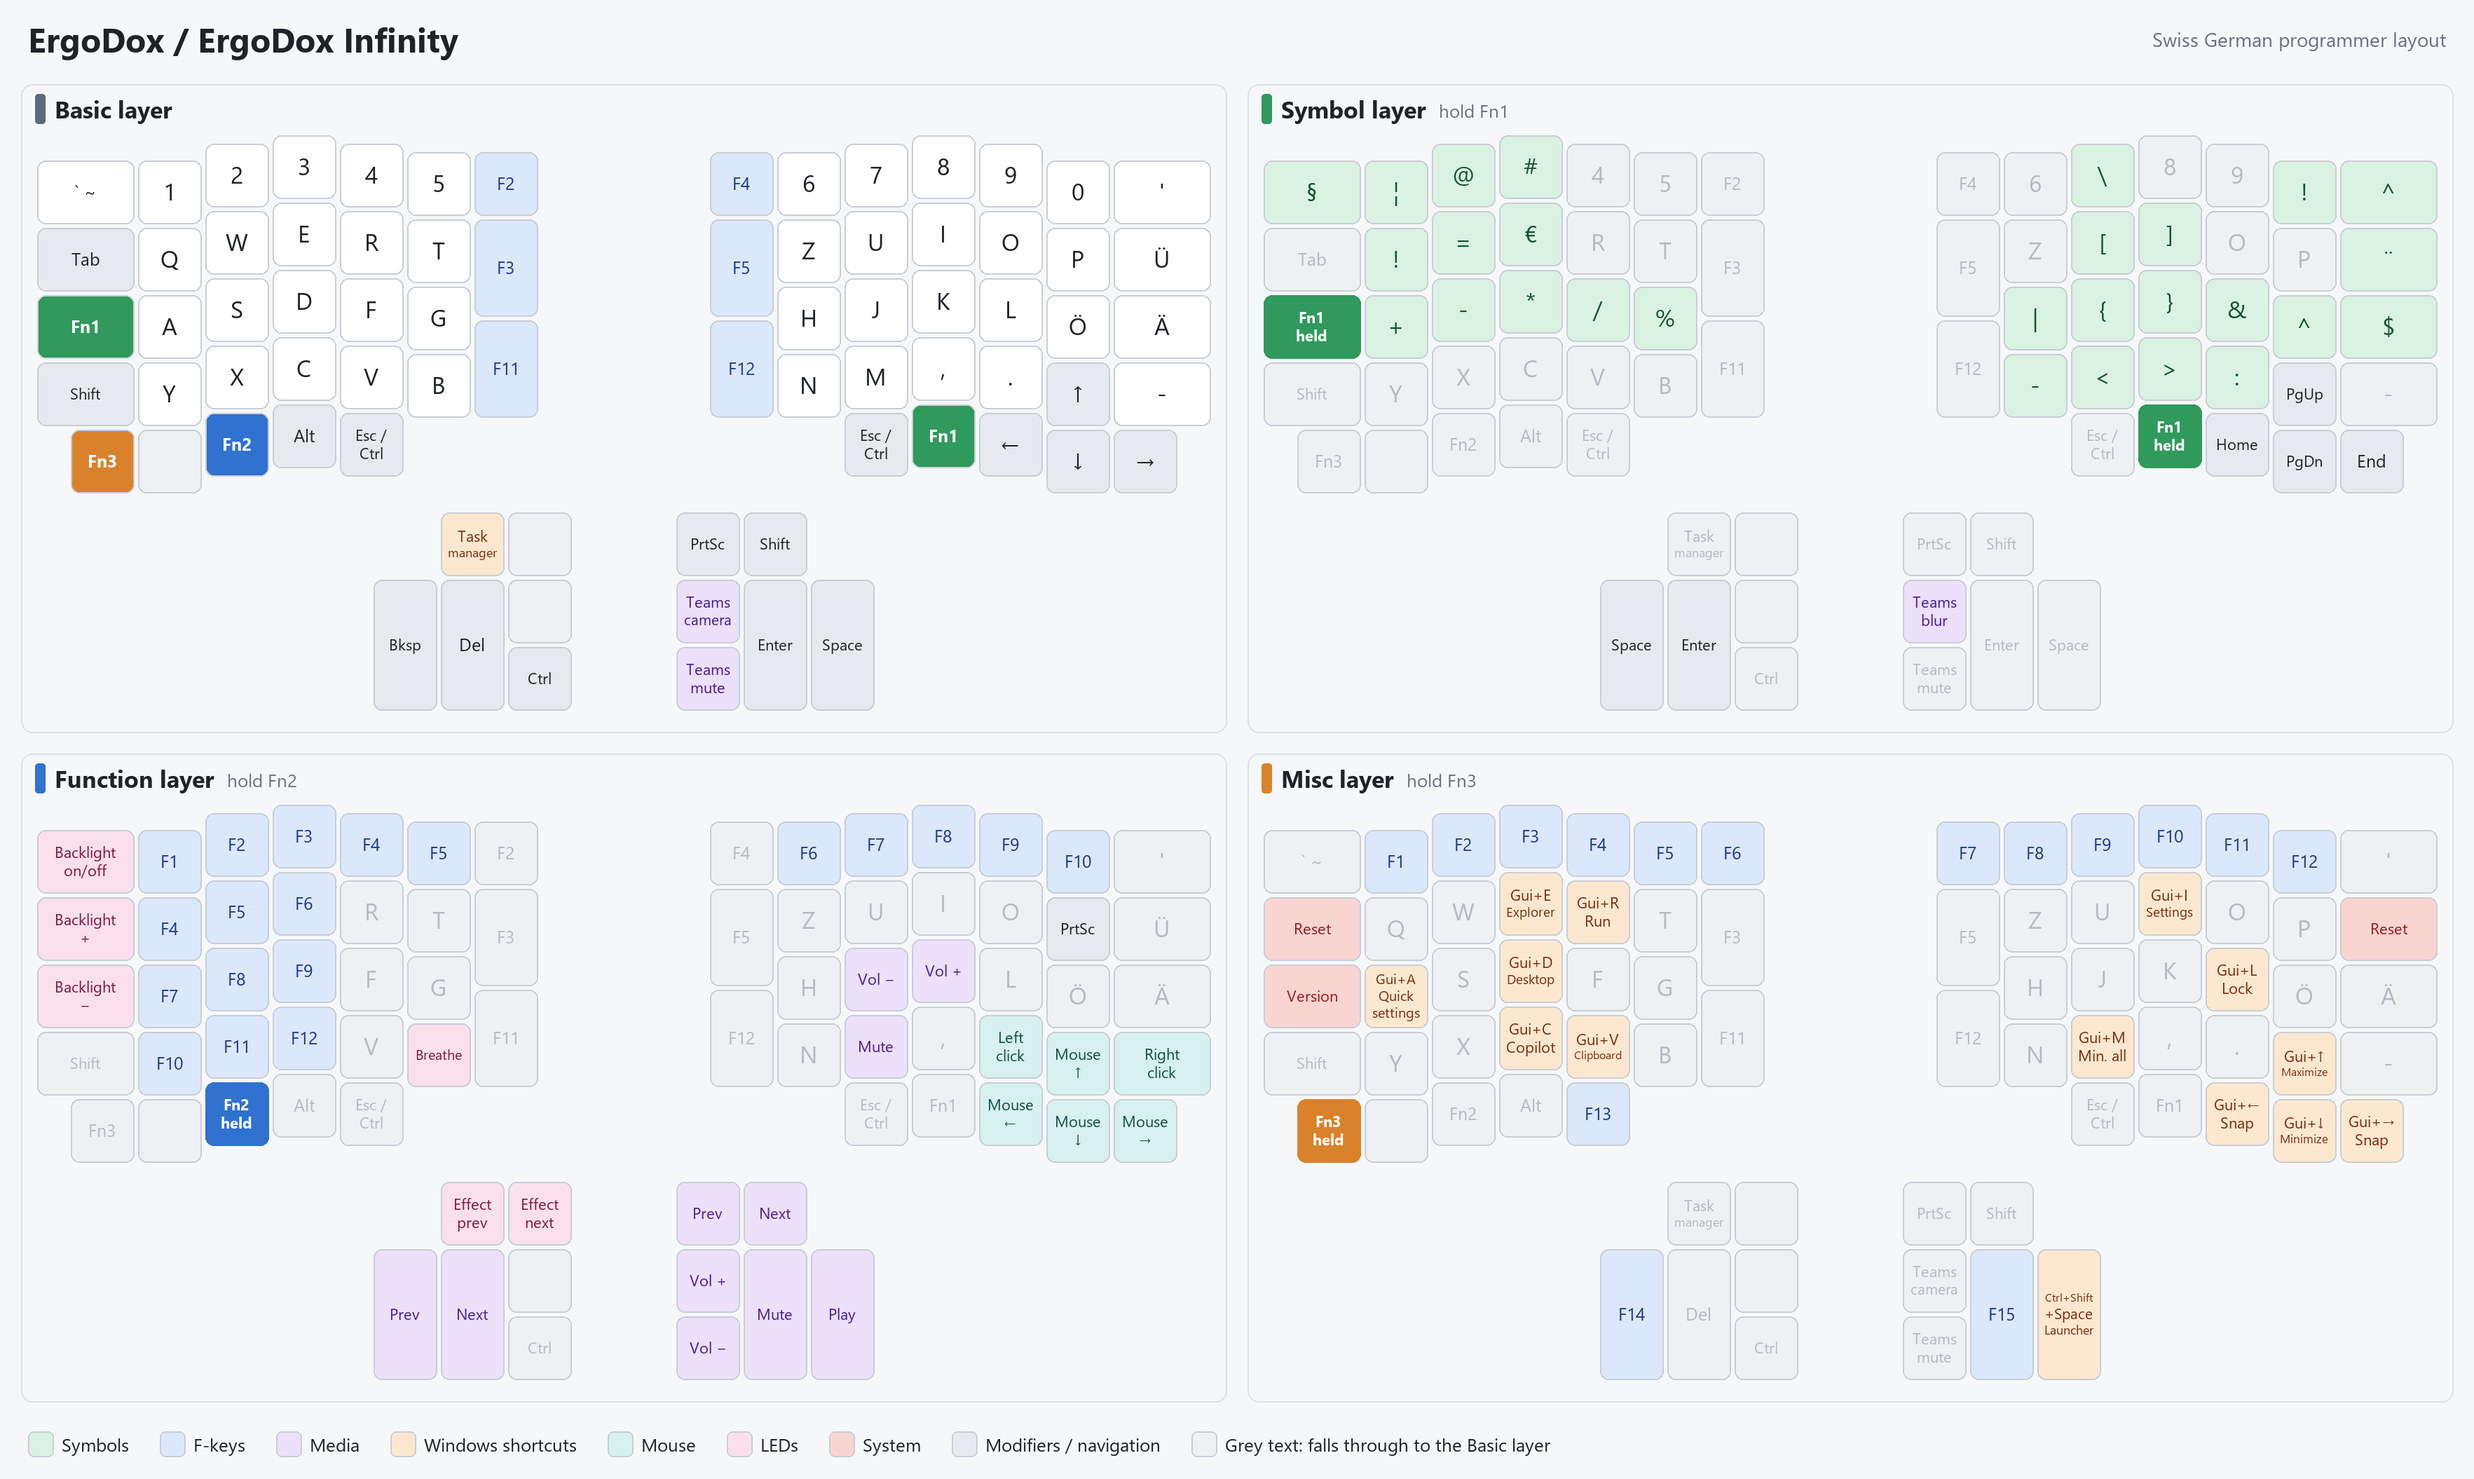
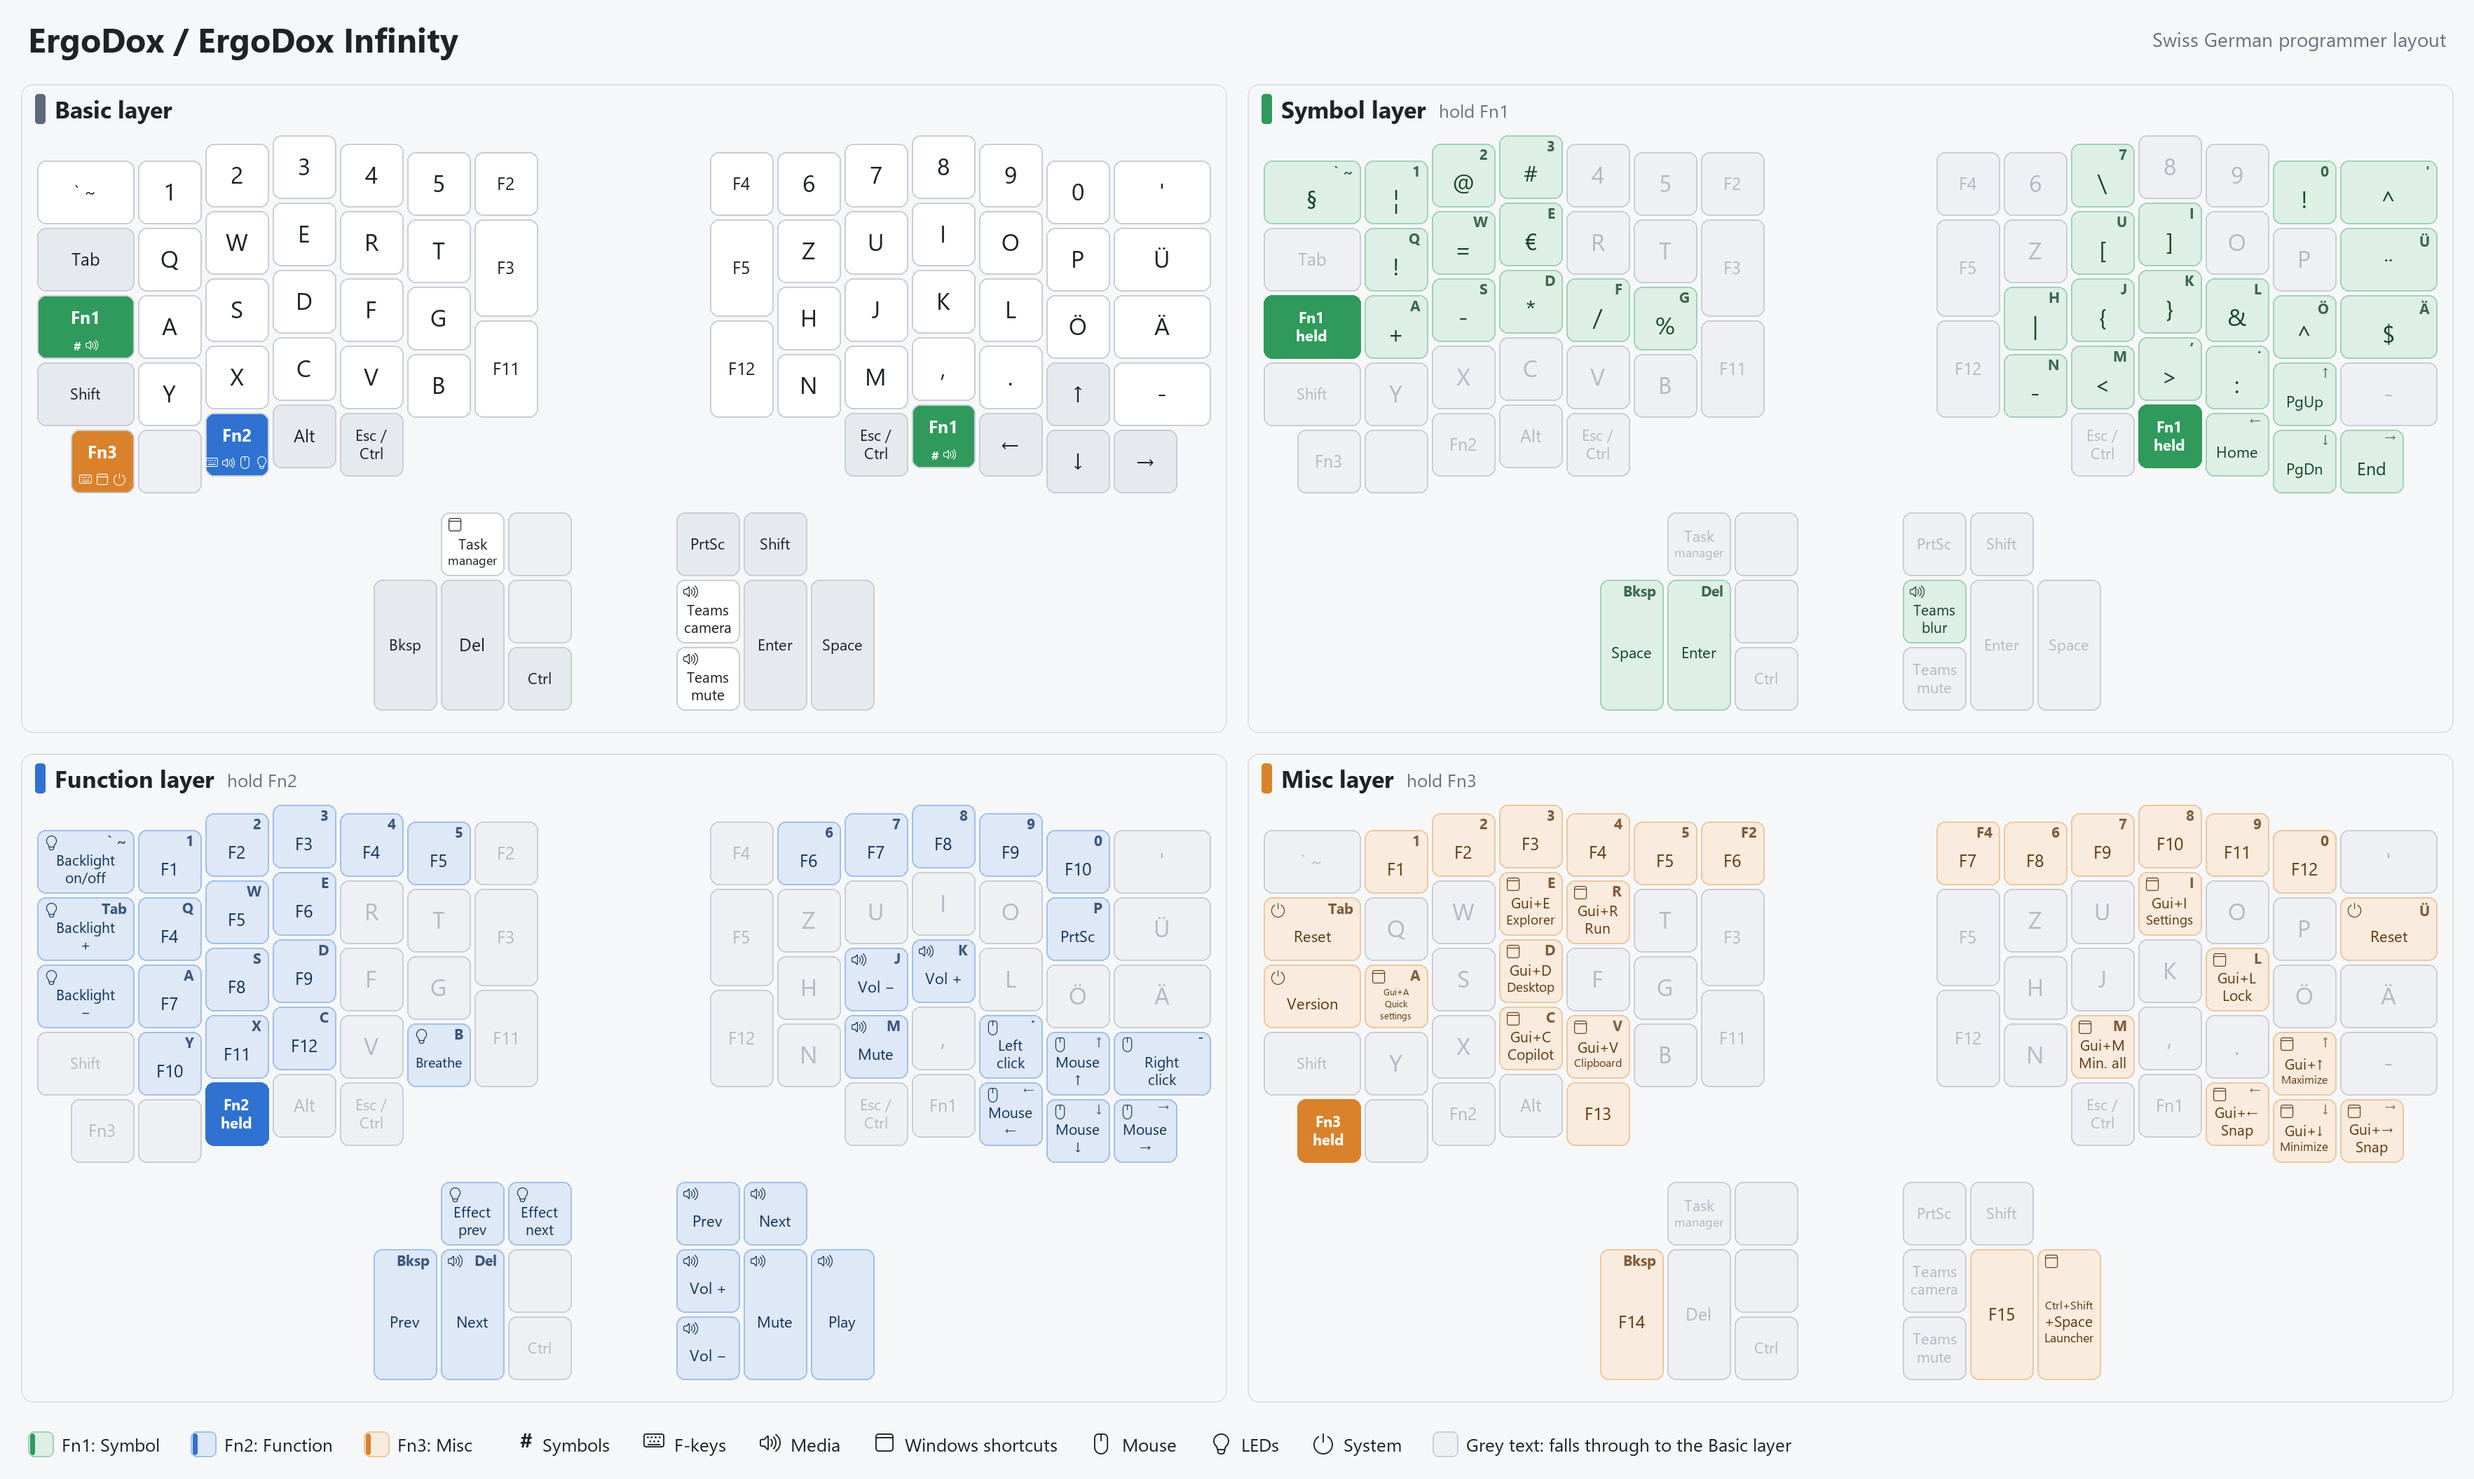
Tint cheat sheet keys by layer and show the Basic key underneath
Fn-layer keys take a light tint of their layer colour and show the
Basic-layer key at that position in the corner, so a lookup reads
straight off the key (Vol + -> Fn2 + K). Category colours are replaced
by Segoe Fluent icons, and the Fn keys on the Basic layer list the
categories found on their layer.

diff --git a/tools/cheatsheets.py b/tools/cheatsheets.py
@@ -13,6 +13,7 @@ OUT = ROOT / "docs" / "cheatsheets"
 FONT_DIR = Path("C:/Windows/Fonts")
 FONT = str(FONT_DIR / "segoeui.ttf")
 FONT_BOLD = str(FONT_DIR / "segoeuib.ttf")
+FONT_ICONS = str(FONT_DIR / "SegoeIcons.ttf")   # Segoe Fluent Icons (Windows 11)
 
 U = 96          # pixels per key unit
 GAP = 6         # gap between keys
@@ -25,21 +26,21 @@ LAYERS = [
     ("Function layer", "hold Fn2", "#2f72d0"),
     ("Misc layer", "hold Fn3", "#d9822b"),
 ]
-CATEGORIES = {               # fill, text
-    "alpha":  ("#ffffff", "#1f2328"),
-    "mod":    ("#e6e9ee", "#1f2328"),
-    "symbol": ("#d9f2e2", "#14532d"),
-    "fkey":   ("#dbe7fb", "#1e3a8a"),
-    "media":  ("#ece0fa", "#4c1d95"),
-    "rgb":    ("#fbe0ec", "#831843"),
-    "mouse":  ("#d6f1ee", "#134e4a"),
-    "window": ("#fde8cf", "#7c2d12"),
-    "system": ("#f9d5d2", "#991b1b"),
+BASIC_FILLS = {"alpha": "#ffffff", "mod": "#e6e9ee"}   # Basic layer; anything else is white
+ICONS = {                    # category: (font file, glyph)
+    "symbol": (FONT_BOLD, "#"),
+    "fkey":   (FONT_ICONS, ""),   # keyboard
+    "media":  (FONT_ICONS, ""),   # speaker
+    "window": (FONT_ICONS, ""),   # window
+    "mouse":  (FONT_ICONS, ""),   # mouse
+    "rgb":    (FONT_ICONS, ""),   # light bulb
+    "system": (FONT_ICONS, ""),   # power
 }
+KEY_ICONS = {"media", "window", "mouse", "rgb", "system"}   # symbol/F-key labels speak for themselves
 LEGEND = [
     ("symbol", "Symbols"), ("fkey", "F-keys"), ("media", "Media"),
     ("window", "Windows shortcuts"), ("mouse", "Mouse"), ("rgb", "LEDs"),
-    ("system", "System"), ("mod", "Modifiers / navigation"),
+    ("system", "System"),
 ]
 BG = "#f6f7f9"
 TRANSPARENT_FILL = "#eef0f3"
@@ -233,11 +234,36 @@ KEYBOARDS = [
 _fonts = {}
 
 
-def font(size, bold=False):
-    key = (size, bold)
+def font(size, bold=False, path=None):
+    path = path or (FONT_BOLD if bold else FONT)
+    key = (size, path)
     if key not in _fonts:
-        _fonts[key] = ImageFont.truetype(FONT_BOLD if bold else FONT, size)
+        _fonts[key] = ImageFont.truetype(path, size)
     return _fonts[key]
+
+
+def mix(color, other, amount):
+    """Blend two #rrggbb colours; amount 0 = color, 1 = other."""
+    a = [int(color[i:i + 2], 16) for i in (1, 3, 5)]
+    b = [int(other[i:i + 2], 16) for i in (1, 3, 5)]
+    return "#" + "".join(f"{round(x + (y - x) * amount):02x}" for x, y in zip(a, b))
+
+
+def layer_colours(n):
+    """fill, text, outline for keys that do something on layer n."""
+    accent = LAYERS[n][2]
+    return mix(accent, "#ffffff", 0.84), mix(accent, "#000000", 0.55), mix(accent, "#ffffff", 0.55)
+
+
+def draw_glyph(draw, xy, glyph, size, color, anchor="lt"):
+    """Draw a glyph so its ink box sits at xy (anchor: l/r + t/b)."""
+    path, ch = glyph
+    f = font(size, path=path)
+    x0, y0, x1, y1 = f.getbbox(ch)
+    x = xy[0] - (x0 if anchor[0] == "l" else x1)
+    y = xy[1] - (y0 if anchor[1] == "t" else y1)
+    draw.text((x, y), ch, font=f, fill=color)
+    return x1 - x0
 
 
 def text_height(lines, sizes, descender=True):
@@ -270,19 +296,41 @@ def fit_key_text(draw, text, max_w, max_h):
     return lines, fit_lines(draw, lines, max_w, max_h, start)
 
 
-def draw_key(draw, rect, text, fill, color, outline=None, bold=False):
-    """text may be a tuple of alternative wrappings; the one whose smallest line is largest wins."""
+def draw_key(draw, rect, text, fill, color, outline=None, bold=False, width=2,
+             icon=None, corner=None, corner_color=None, badges=()):
+    """text may be a tuple of alternative wrappings; the one whose smallest line is largest wins.
+    icon: category glyph top left; corner: Basic-layer key label top right;
+    badges: row of category glyphs under the text."""
     x0, y0, x1, y1 = rect
-    draw.rounded_rectangle(rect, RADIUS, fill=fill, outline=outline or "#c9ced6",
-                           width=4 if outline else 2)
+    draw.rounded_rectangle(rect, RADIUS, fill=fill, outline=outline or "#c9ced6", width=width)
+    pad, small = 10, int(U * 0.22)
+    top = bottom = 0
+    if icon and corner:                 # no room for both: the Basic key label wins
+        widths = [font(small, path=p).getbbox(t) for p, t in (ICONS[icon], (FONT_BOLD, corner))]
+        if sum(b[2] - b[0] for b in widths) + 8 > x1 - x0 - 2 * pad:
+            icon = None
+    if icon:
+        draw_glyph(draw, (x0 + pad, y0 + pad - 2), ICONS[icon], small, color)
+    if corner:
+        draw_glyph(draw, (x1 - pad, y0 + pad - 2), (FONT_BOLD, corner), small, corner_color, "rt")
+    if icon or corner:
+        top = small + 2
+    if badges:
+        bottom = small + 4
+        sz = int(small * 0.9)
+        ws = [font(sz, path=ICONS[b][0]).getbbox(ICONS[b][1]) for b in badges]
+        ws = [b[2] - b[0] for b in ws]
+        x = (x0 + x1 - sum(ws) - 6 * (len(ws) - 1)) / 2
+        for b, w in zip(badges, ws):
+            draw_glyph(draw, (x, y1 - pad), ICONS[b], sz, color, "lb")
+            x += w + 6
     if not text:
         return
-    pad = 10
     variants = [text] if isinstance(text, str) else text
-    fits = [fit_key_text(draw, t, x1 - x0 - 2 * pad, y1 - y0 - 2 * pad) for t in variants]
+    fits = [fit_key_text(draw, t, x1 - x0 - 2 * pad, y1 - y0 - 2 * pad - top - bottom) for t in variants]
     lines, sizes = max(fits, key=lambda ls: min(ls[1]))
     fonts = [font(s, bold) for s in sizes]
-    cx, cy = (x0 + x1) / 2, (y0 + y1) / 2
+    cx, cy = (x0 + x1) / 2, (y0 + top + y1 - bottom) / 2
     baseline = cy - text_height(lines, sizes, descender=False) / 2 -fonts[0].getbbox("A", anchor="ls")[1]
     for i, (line, f) in enumerate(zip(lines, fonts)):
         if i:
@@ -304,6 +352,7 @@ def render_layer(layers, n, geometry):
         tw = d.textlength(name, font=font(34, bold=True))
         d.text((48 + tw + 18, 37), how, font=font(26), fill=TEXT_MUTED, anchor="lm")
 
+    fill, color, outline = layer_colours(n)
     for i, (x, y, w, h) in enumerate(geometry):
         rect = (20 + x * U + GAP / 2, header + y * U + GAP / 2,
                 20 + (x + w) * U - GAP / 2, header + (y + h) * U - GAP / 2)
@@ -312,20 +361,45 @@ def render_layer(layers, n, geometry):
             base = layers[0][i]
             text, cat = label(base) if base != "_______" else ("", "")
             if n and cat == f"layer{n}":            # the key held to reach this layer
-                draw_key(d, rect, f"{text}\nheld", accent, "#ffffff", outline=accent, bold=True)
+                draw_key(d, rect, f"{text}\nheld", accent, "#ffffff", outline=accent, width=4, bold=True)
             else:
                 draw_key(d, rect, text if n else "", TRANSPARENT_FILL, TRANSPARENT_TEXT)
             continue
-        text, cat = label(kc)
-        if n and cat == "alpha":                    # plain CH key placed on a symbol layer
-            cat = "symbol"
+        text, cat = key_category(kc, n)
         if cat.startswith("layer"):
             col = LAYERS[int(cat[-1])][2]
-            draw_key(d, rect, text, col, "#ffffff", bold=True)
+            draw_key(d, rect, text, col, "#ffffff", bold=True,
+                     badges=layer_categories(layers, int(cat[-1])))
+        elif n:
+            draw_key(d, rect, text, fill, color, outline=outline, icon=cat if cat in KEY_ICONS else None,
+                     corner=base_hint(layers[0][i]), corner_color=mix(color, fill, 0.2))
         else:
-            fill, color = CATEGORIES[cat]
-            draw_key(d, rect, text, fill, color)
+            draw_key(d, rect, text, BASIC_FILLS.get(cat, "#ffffff"), TEXT_DARK,
+                     icon=cat if cat in KEY_ICONS else None)
     return img
+
+
+def key_category(kc, n):
+    text, cat = label(kc)
+    if n and cat == "alpha":                        # plain CH key placed on a symbol layer
+        cat = "symbol"
+    return text, cat
+
+
+def layer_categories(layers, n):
+    """Icon categories of the keys defined on layer n, in legend order."""
+    cats = {key_category(kc, n)[1] for kc in layers[n] if kc != "_______"}
+    return [c for c, _ in LEGEND if c in cats]
+
+
+def base_hint(kc):
+    """Short label of the Basic-layer key at this position, or None."""
+    if kc == "_______":
+        return None
+    text, cat = label(kc)
+    if cat.startswith("layer") or not isinstance(text, str) or "\n" in text or len(text) > 4:
+        return None
+    return text.strip()
 
 
 def render_keyboard(title, layers, geometry):
@@ -345,16 +419,34 @@ def render_keyboard(title, layers, geometry):
         sheet.paste(p, (x, y))
         d.rounded_rectangle((x, y, x + pw, y + ph), 16, outline="#dde1e7", width=2)
 
-    # legend
-    x, y = margin + 10, H - legend_h / 2 - 10
-    for cat, text in LEGEND:
-        fill, color = CATEGORIES[cat]
-        d.rounded_rectangle((x, y - 18, x + 36, y + 18), 8, fill=fill, outline="#c9ced6", width=2)
+    legend = render_legend()
+    if legend.width > W - 2 * margin - 10:          # narrow sheet: shrink the legend to fit
+        scale = (W - 2 * margin - 10) / legend.width
+        legend = legend.resize((int(legend.width * scale), int(legend.height * scale)), Image.LANCZOS)
+    sheet.paste(legend, (margin + 10, int(H - legend_h / 2 - 10 - legend.height / 2)))
+    return sheet
+
+
+def render_legend():
+    img = Image.new("RGB", (4000, 40), BG)
+    d = ImageDraw.Draw(img)
+    x, y = 0, 20
+    for n in range(1, 4):
+        fill, color, outline = layer_colours(n)
+        d.rounded_rectangle((x, y - 18, x + 36, y + 18), 8, fill=fill, outline=outline, width=2)
+        d.rounded_rectangle((x + 3, y - 15, x + 9, y + 15), 3, fill=LAYERS[n][2])
+        text = f"{LAYERS[n][1].replace('hold ', '')}: {LAYERS[n][0].replace(' layer', '')}"
         d.text((x + 48, y), text, font=font(26), fill=TEXT_DARK, anchor="lm")
         x += 48 + d.textlength(text, font=font(26)) + 44
+    x += 20
+    for cat, text in LEGEND:
+        x += 6 + draw_glyph(d, (x + 4, y - 15), ICONS[cat], 30, TEXT_DARK) + 12
+        d.text((x, y), text, font=font(26), fill=TEXT_DARK, anchor="lm")
+        x += d.textlength(text, font=font(26)) + 44
     d.rounded_rectangle((x, y - 18, x + 36, y + 18), 8, fill=TRANSPARENT_FILL, outline="#c9ced6", width=2)
-    d.text((x + 48, y), "Grey text: falls through to the Basic layer", font=font(26), fill=TEXT_DARK, anchor="lm")
-    return sheet
+    text = "Grey text: falls through to the Basic layer"
+    d.text((x + 48, y), text, font=font(26), fill=TEXT_DARK, anchor="lm")
+    return img.crop((0, 0, int(x + 48 + d.textlength(text, font=font(26))) + 4, 40))
 
 
 def main():

diff --git a/README.md b/README.md
@@ -22,6 +22,11 @@ target list in `qmk_alt.json`.
 Four layers on every keyboard: **Basic**, **Symbol** (hold Fn1), **Function** (hold Fn2) and
 **Misc** (hold Fn3).
 
+Keys on a Fn layer are tinted in that layer's colour, so the colour tells you which Fn key to
+hold, and the small label in the top-right corner is the Basic-layer key at that spot: Vol + is
+light blue with a "K" in the corner, so press Fn2 + K. Icons mark the kind of action, and the
+icons under each Fn key on the Basic layer show what you'll find on its layer.
+
 On the Drop ALT, while a Fn layer is held, the keys that do something on it light up in that
 layer's colour from the cheat sheets (Symbol green, Function blue, Misc orange) and the other
 keys go dark; the edge keeps its colour. Releasing the Fn key brings back the normal lighting.
